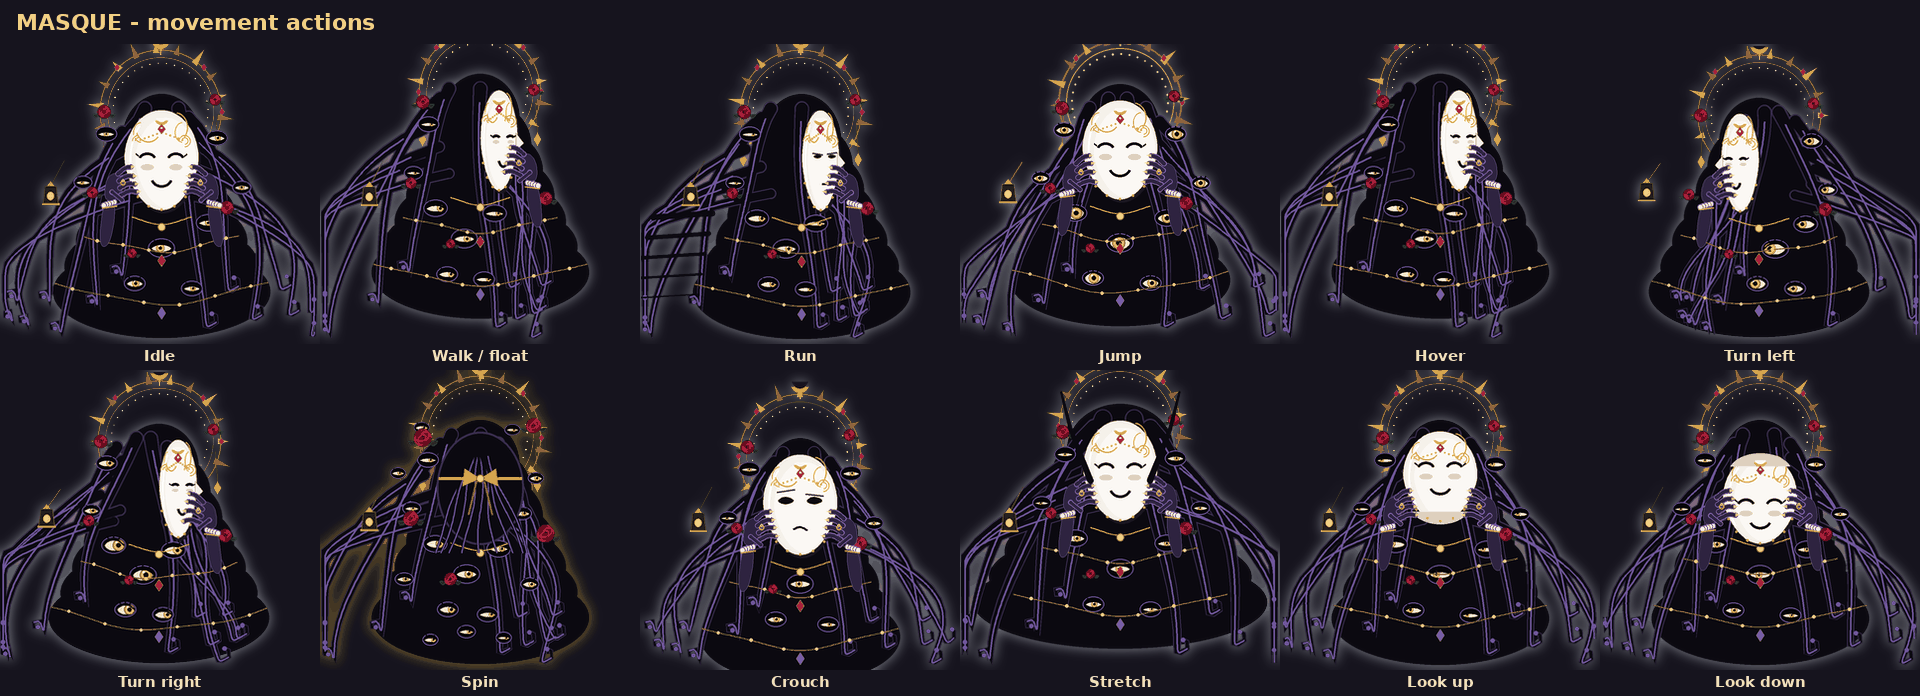
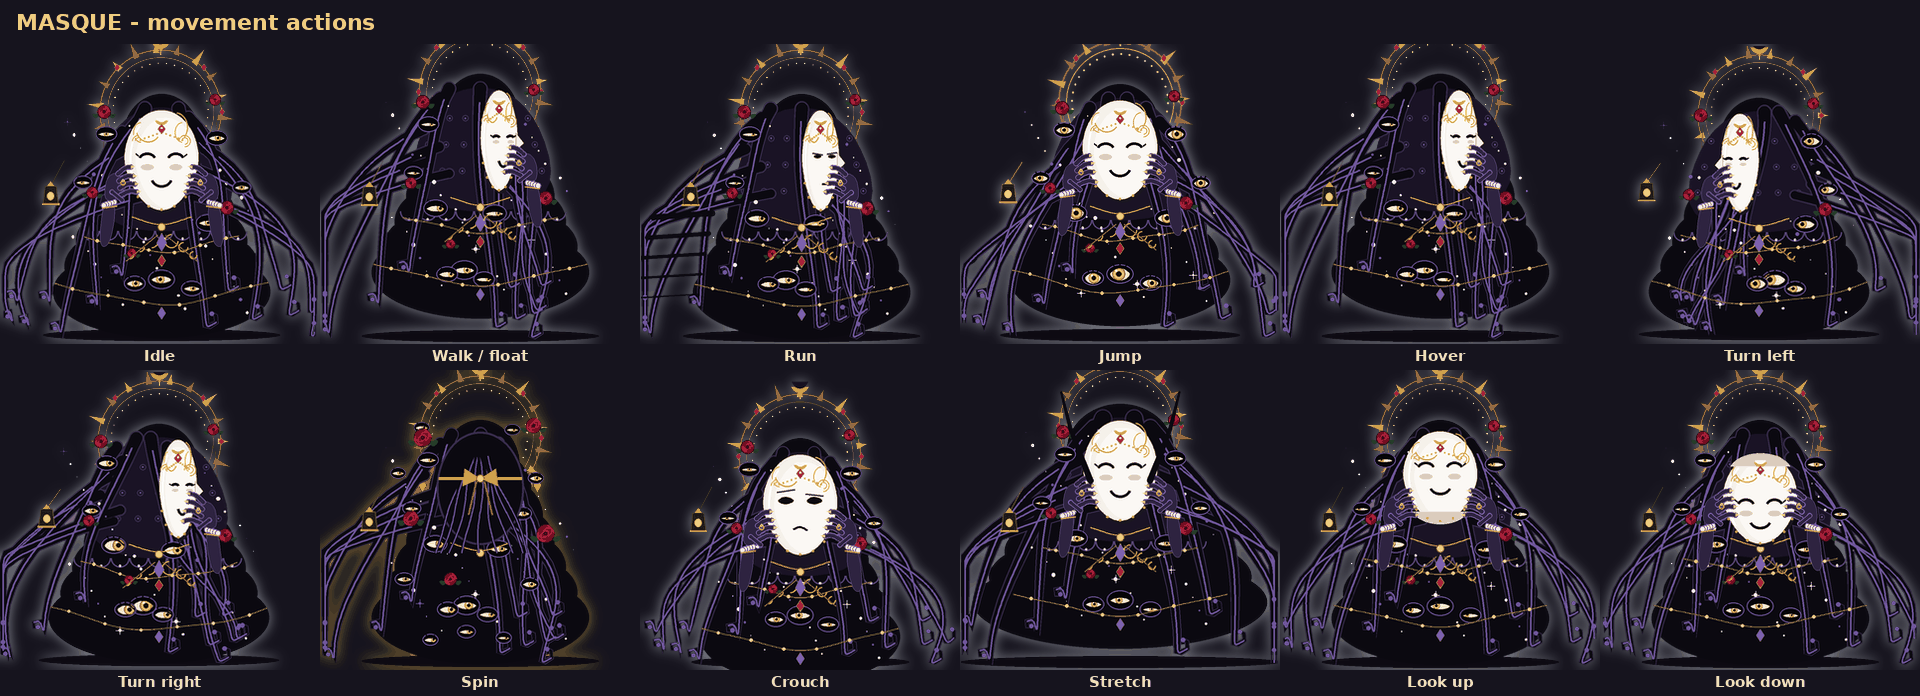
Masque: lace veil, starfield body, tendril wisps, gold bodice filigree, floor shadow
Claude-Session: https://claude.ai/code/session_01PQo4QqTtKQd9uCasapaCKQ

diff --git a/hermes_companion/animation/masque.py b/hermes_companion/animation/masque.py
@@ -616,7 +616,7 @@ def draw_mask(canvas, x, y, w, h, face, cracks=0, tilt=0.0, teeth=True, lace=Tru
 # The whole creature
 # ---------------------------------------------------------------------------
 # Hand-placed so they sit in the mane like the sheet: framing the mask, down the body.
-_EYE_SPOTS = [(-62, 92, 8), (62, 96, 8), (-50, 175, 9), (52, 180, 9), (0, 205, 10),
+_EYE_SPOTS = [(-62, 92, 8), (62, 96, 8), (-50, 175, 9), (52, 180, 9), (0, 236, 10),
               (-88, 140, 7), (90, 145, 7), (-30, 240, 8), (34, 245, 8), (-72, 60, 6),
               (74, 62, 6), (-100, 210, 7), (102, 215, 7), (0, 262, 7), (-58, 270, 6),
               (60, 268, 6), (-110, 105, 6), (112, 110, 6), (-20, 150, 6), (24, 152, 6),
@@ -793,11 +793,16 @@ def draw_masque(canvas, pose: str, progress: float = 0.0, palette: str | None = 
     # 2. the mane: a dark mass of hair-like tendrils pouring to the floor
     tint = _mix("#3b2a55", colour, 0.55)
     spread = 1.0 + (0.35 if "bloom" in fx else 0.0) - (0.3 if ("coil" in fx or "recoil" in fx) else 0.0)
+    if "perch" not in fx:                                  # a soft shadow pooling on the floor
+        sw = 120 * size * spread
+        canvas.create_oval(mcx - sw, FLOOR - 7, mcx + sw, FLOOR + 5, fill="#0d0a12", outline="")
     for k in range(7):                                     # soft volume behind the strands
         t = k / 6
         rx = (40 + 70 * t) * size * spread
         cy_ = mcy - 20 + 150 * t
         canvas.create_oval(mcx - rx, cy_ - 46, mcx + rx, cy_ + 46, fill=INK, outline="")
+    if lace and not back:                                  # lace veil over the body, under the strands
+        _veil(canvas, mcx, mcy, mw, size, p)
     count = n_tendrils + 2 * st.running
     strands = []
     for i in range(count):
@@ -808,6 +813,17 @@ def draw_masque(canvas, pose: str, progress: float = 0.0, palette: str | None = 
         _strand(canvas, pts, w0 + 2.4, 4.0, "#3a2d4d")
     for pts, w0 in strands:                                # then thick ink
         _strand(canvas, pts, w0, 2.5, INK)
+    _starfield(canvas, mcx, mcy, size, p, tint)              # the void inside her twinkles
+    for i, (pts, w0) in enumerate(strands):                  # fine wisps peel off each tendril
+        for j in (4, 8):
+            if j < len(pts) - 1:
+                (x0, y0), (x1, y1) = pts[j], pts[j + 1]
+                side = 1 if (i + j) % 2 else -1
+                ang = math.atan2(y1 - y0, x1 - x0) + side * 0.7
+                ln = 9 + 4 * math.sin(p * 6 + i + j)
+                canvas.create_line(x0, y0, x0 + math.cos(ang) * ln * 0.6 + side * 2,
+                                   y0 + math.sin(ang) * ln * 0.6, x0 + math.cos(ang - side * 0.5) * ln,
+                                   y0 + math.sin(ang - side * 0.5) * ln, fill=INK, width=1.6, smooth=True)
     # sheen catches the colour of the work - several kinds of tools at once braid their colours
     kinds = list(dict.fromkeys(st.tools)) if len(set(st.tools)) > 1 else []
     tints = [_mix("#3b2a55", CATEGORY_COLOUR.get(c, colour), 0.6) for c in kinds] or [tint]
@@ -866,6 +882,8 @@ def draw_masque(canvas, pose: str, progress: float = 0.0, palette: str | None = 
               bloom=1.2 if "roses" in fx else 1.0)
     canvas.create_line(mcx - 30, mcy + mh + 6, mcx, mcy + mh + 16, mcx + 30, mcy + mh + 6,
                        fill=GOLD, width=1.5, smooth=True)
+    if not back:
+        _bodice(canvas, mcx, mcy + mh + 30)
     canvas.create_oval(mcx - 4, mcy + mh + 12, mcx + 4, mcy + mh + 20, fill=GOLD_HI, outline=GOLD_DK)
 
     # 5. form props
@@ -1011,6 +1029,60 @@ def _window(canvas, top):
         canvas.create_oval(bx - 5, top + 6, bx + 5, top + 16, fill=col, outline="")
     for i in range(3):                                        # lines of text in the window
         canvas.create_line(20, top + 34 + i * 12, 150 - i * 30, top + 34 + i * 12, fill="#3c4a6e", width=3)
+
+
+def _veil(canvas, x, y, mw, size, p):
+    """A lace veil from the crown, scalloped at the hem (the sheet's optional drapery)."""
+    top, hem = y - 52, y + 70
+    half_top, half_hem = mw + 10, (mw + 46) * size
+    sway = 3 * math.sin(p * 2 * math.pi)
+    canvas.create_polygon(x - half_top, top, x + half_top, top, x + half_hem + sway, hem,
+                          x - half_hem + sway, hem, fill="#1a1325", outline="", smooth=True)
+    n = 9
+    for i in range(n):                                       # scalloped hem
+        t0 = i / n
+        sx = x - half_hem + sway + 2 * half_hem * t0
+        w = 2 * half_hem / n
+        canvas.create_arc(sx, hem - w * 0.5, sx + w, hem + w * 0.5, start=180, extent=180, style="arc",
+                          outline="#5d4a78", width=1.2)
+        canvas.create_oval(sx + w / 2 - 1.2, hem + w * 0.42 - 1.2, sx + w / 2 + 1.2, hem + w * 0.42 + 1.2,
+                           fill="#cbbfe0", outline="")
+    for r_ in range(3):                                      # lace pattern: rows of tiny rosettes
+        yy = top + 30 + r_ * 26
+        span = half_top + (half_hem - half_top) * (yy - top) / (hem - top)
+        for k in range(-3, 4):
+            xx = x + k * span / 3.6 + sway * (yy - top) / (hem - top)
+            canvas.create_oval(xx - 3, yy - 3, xx + 3, yy + 3, outline="#4a3b62", width=0.8)
+            canvas.create_oval(xx - 0.8, yy - 0.8, xx + 0.8, yy + 0.8, fill="#6d5a8c", outline="")
+
+
+_STARS = [((i * 37) % 200 - 100, 80 + (i * 53) % 190, 0.6 + (i % 3) * 0.4) for i in range(46)]
+
+
+def _starfield(canvas, x, y, size, p, tint):
+    """Tiny stars glinting in the dark of her body; a few twinkle each beat."""
+    for i, (dx, dy, r) in enumerate(_STARS):
+        sx, sy = x + dx * size * 0.95, dy + (y - 118)
+        if abs(dx) < 34 and dy < 175:                        # keep the mask area clean
+            continue
+        tw = 0.5 + 0.5 * math.sin(p * 2 * math.pi * 2 + i)
+        rr = r * (0.6 + 0.8 * tw)
+        col = "#e9dcff" if i % 4 else tint
+        canvas.create_oval(sx - rr, sy - rr, sx + rr, sy + rr, fill=col, outline="")
+        if i % 7 == 0 and tw > 0.8:                          # a four-point glint
+            canvas.create_line(sx - 4, sy, sx + 4, sy, fill=col, width=0.8)
+            canvas.create_line(sx, sy - 4, sx, sy + 4, fill=col, width=0.8)
+
+
+def _bodice(canvas, x, y):
+    """Gold filigree on the bodice: mirrored curls around a teardrop gem."""
+    for k in (-1, 1):
+        for i, (dx, dy, r) in enumerate(((10, 0, 7), (22, 6, 5), (32, 14, 4))):
+            cx_, cy_ = x + k * dx, y + dy
+            canvas.create_arc(cx_ - r, cy_ - r, cx_ + r, cy_ + r, start=90 if k > 0 else -90,
+                              extent=270 * k, style="arc", outline=GOLD, width=1.2)
+        canvas.create_line(x + k * 4, y - 6, x + k * 36, y + 20, fill=GOLD_DK, width=1, smooth=True)
+    canvas.create_polygon(x, y - 8, x + 5, y + 2, x, y + 10, x - 5, y + 2, fill="#7a3fd1", outline=GOLD_HI)
 
 
 def _move_effects(canvas, fx, x, y, w, h, p, osc, colour):
